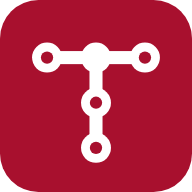
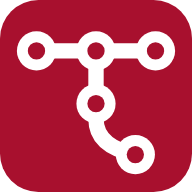
Neue Bildmarke: fünf Ringe, der Stamm biegt unten nach rechts ab
Nach der Vorlage von Michael, in Karmin wie bisher; App-Symbole und
Browser-Symbol neu erzeugt.

Claude-Session: https://claude.ai/code/session_01NmQeKCF7bHq44rvGBQiMKH

Changed region(s): [[0.0625, 0.1562, 0.9375, 0.4062], [0.375, 0.3438, 0.8125, 0.9062]]

diff --git a/app/index.html b/app/index.html
@@ -2,9 +2,9 @@
 <html lang="de-CH">
   <head>
     <meta charset="UTF-8" />
-    <link rel="icon" type="image/svg+xml" href="./logo.svg?v=2" />
-    <link rel="icon" type="image/png" href="./icon-192.png?v=2" />
-    <link rel="apple-touch-icon" href="./apple-touch-icon.png?v=2" />
+    <link rel="icon" type="image/svg+xml" href="./logo.svg?v=3" />
+    <link rel="icon" type="image/png" href="./icon-192.png?v=3" />
+    <link rel="apple-touch-icon" href="./apple-touch-icon.png?v=3" />
     <link rel="manifest" href="./manifest.webmanifest" />
     <meta name="apple-mobile-web-app-capable" content="yes" />
     <meta name="apple-mobile-web-app-title" content="Taktland" />

diff --git a/CLAUDE.md b/CLAUDE.md
@@ -197,8 +197,8 @@ Anthracite `#5a5a5a` statt Schwarz (Michael, 2026-09-25). Kacheln und Knöpfe si
 einzige Ausnahme von den kantigen Flächen.
 
 **Die Bildmarke von Taktland** ist ein weisses «T» aus einer Linie mit fünf Haltepunkten auf
-karminrotem (`#a8102e`), abgerundetem Quadrat; die obere Abzweigung ist ausgefüllt
-(`app/public/logo.svg`, Entwürfe in `entwuerfe/logo/`, Michael, 2026-09-27). Sie steht vor dem
+karminrotem (`#a8102e`), abgerundetem Quadrat; alle Haltepunkte sind Ringe, der Stamm biegt
+unten nach rechts ab (`app/public/logo.svg`, Entwürfe in `entwuerfe/logo/`, Michael, 2026-09-30). Sie steht vor dem
 Namen im Kopf und ist das App-Symbol; ihr Karminrot ist auch die Akzentfarbe der App.
 
 **Kein Logo, keine Bildmarke der SBB.** Die Farb- und Formensprache ist übernommen,
